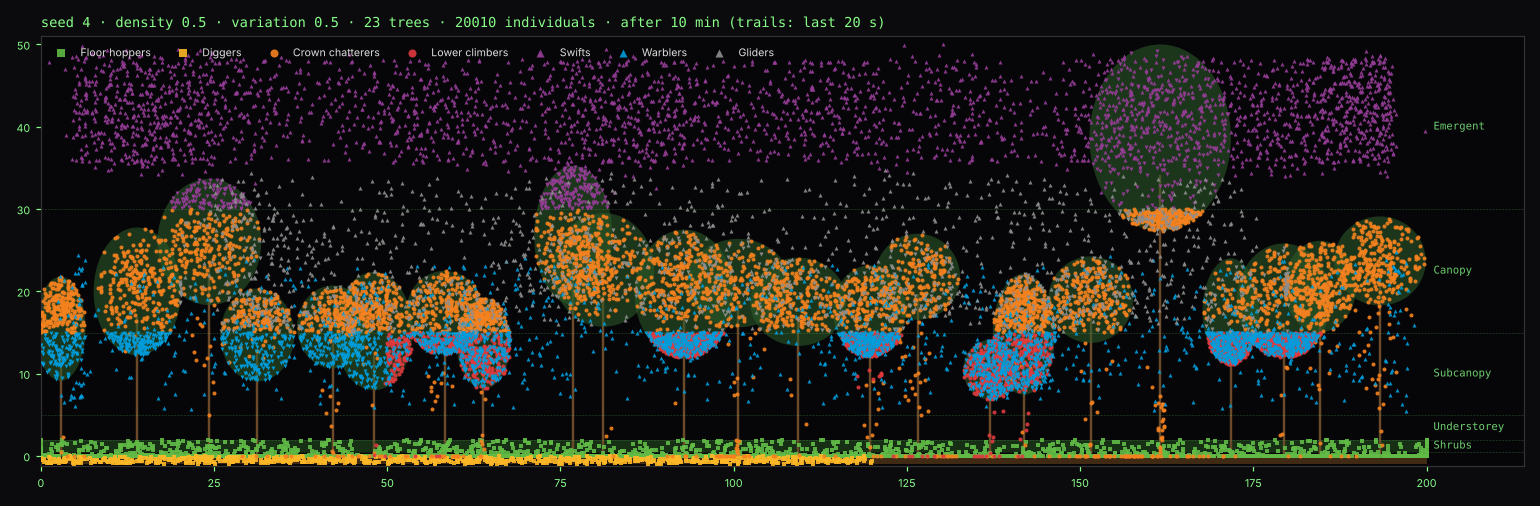
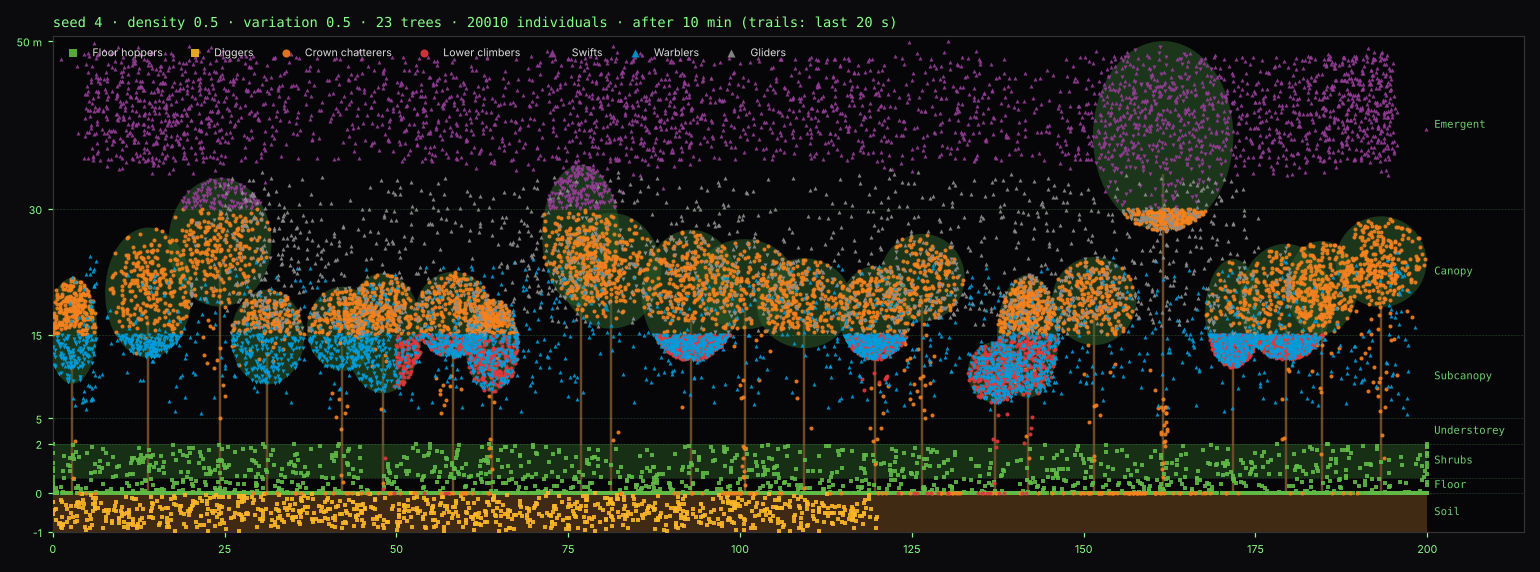
Taller soil and shrub bands in the world pictures; Mac CI on Intel
Claude-Session: https://claude.ai/code/session_016dUi4DJ9Gm1PvEiirdVzbF

diff --git a/tools/plot_world.py b/tools/plot_world.py
@@ -3,6 +3,7 @@
     python3 tools/plot_world.py out/world.json docs/experiments/02-forest.png
 """
 import json, sys
+import numpy as np
 import matplotlib
 matplotlib.use("Agg")
 import matplotlib.pyplot as plt
@@ -11,15 +12,26 @@ from matplotlib.patches import Ellipse, Rectangle
 COLOURS = ["#61bb46", "#fdb827", "#f5821f", "#e03a3e", "#963d97", "#009ddc", "#8f8f8f", "#c0e070"]
 LAYERS = [("Soil", -1, 0), ("Floor", 0, 0.5), ("Shrubs", 0.5, 2), ("Understorey", 2, 5),
           ("Subcanopy", 5, 15), ("Canopy", 15, 30), ("Emergent", 30, 50)]
+# The drawing stretches the low layers so they're readable: soil gets 8 % of the height, floor
+# and shrubs together 10 %, the 48 m above share the rest. Positions are unchanged; only the
+# picture's vertical scale is.
+KNOTS_M = [-1.0, 0.0, 0.5, 2.0, 50.0]
+KNOTS_D = [0.0, 8.0, 11.0, 18.0, 100.0]
+def to_draw(y):
+    return np.interp(y, KNOTS_M, KNOTS_D, left=KNOTS_D[0] - 1, right=KNOTS_D[-1] + 1)
+def from_draw(d):
+    return np.interp(d, KNOTS_D, KNOTS_M, left=KNOTS_M[0] - 0.1, right=KNOTS_M[-1] + 0.5)
+
 MARK = {"walker": "s", "burrower": "s", "climber": "o", "flyer": "^"}
 
 def main(src, dst):
     w = json.load(open(src))
-    fig, ax = plt.subplots(figsize=(14, 4.6), facecolor="#0b0b0e")
+    fig, ax = plt.subplots(figsize=(14, 5.2), facecolor="#0b0b0e")
     ax.set_facecolor("#060608")
     ax.add_patch(Rectangle((0, -1), 200, 1, color="#5a3a1a", alpha=0.7, lw=0))
     ax.add_patch(Rectangle((0, 0.5), 200, 1.5, color="#2f6b2a", alpha=0.15 + 0.45 * w["shrubs"], lw=0))
-    for name, lo, hi in LAYERS[2:]:
+    ax.set_yscale("function", functions=(to_draw, from_draw))
+    for name, lo, hi in LAYERS:
         ax.axhline(lo, color="#8f8", lw=0.4, alpha=0.25, ls="--")
         ax.text(201, (lo + hi) / 2, name, color="#8f8", fontsize=7, va="center", family="monospace", alpha=0.8)
     for x, h, cb, hw in w["trees"]:
@@ -38,7 +50,9 @@ def main(src, dst):
             m = "v" if mode == "perched" else MARK[s["movement"]]
             ax.scatter([a["x"] for a in sel], [a["y"] for a in sel], s=7, marker=m, color=COLOURS[si % 8],
                        alpha=alpha, lw=0, zorder=3, label=s["name"] if mode == "flying" or s["movement"] != "flyer" and mode == "still" else None)
-    ax.set_xlim(0, 214); ax.set_ylim(-1.2, 51)
+    ax.set_xlim(0, 214); ax.set_ylim(-1.0, 50.5)
+    ax.set_yticks([-1, 0, 2, 5, 15, 30, 50])
+    ax.set_yticklabels(["-1", "0", "2", "5", "15", "30", "50 m"])
     ax.tick_params(colors="#8f8", labelsize=7)
     for sp in ax.spines.values():
         sp.set_color("#333")

diff --git a/experiments.md b/experiments.md
@@ -18,6 +18,8 @@ came out. Screenshots go in `docs/experiments/` as `NN-short-name.png` (NN = bat
 | 20 Oct 2026 | 02 | Snapshots of the demo forest (7 species, 2,300 individuals) after 10 min: woodland, forest, thicket | Climbers in crowns with trails down trunks when they change trees; perched flyers in their layers; burrowers only in their part of the soil | `docs/experiments/02-woodland.png`, `02-forest.png`, `02-thicket.png` |
 | 20 Oct 2026 | 02 | Look at the first snapshots | Flocks streaked across the whole width (pull home too weak); climbers lined up on crown edges their area only clipped. Fixed: stronger pull past the roaming distance; prefer trees that reach well into the area; crown half-width capped at 12 m | |
 | 20 Oct 2026 | 02 | World bench: demo forest ×8.7 (20,010 individuals, 4,749 groups), 20 steps a second (container) | 42 ms per second of forest time: about 4 % of one core. Set-up 21 ms | `docs/experiments/02-forest-20k.png` |
+| 20 Oct 2026 | 02 | Your note: soil and shrubs too thin in the pictures | Drawing now stretches the low layers (soil 8 %, floor + shrubs 10 % of the height); the world is unchanged. Images redrawn | `docs/experiments/02-*.png` |
+| 20 Oct 2026 | 01 | Bench on GitHub's Apple Silicon Mac | Never ran: no runner free within 15 min (GitHub capacity). Switched to `macos-26-intel`, matching your Intel laptop | |
 
 ## Notes
 

diff --git a/design.md b/design.md
@@ -272,7 +272,9 @@ Many quiet animals add up quickly: 1,000 equal callers are 30 dB louder than one
 Same look as the bytebent pages (platinum window, black screen first, etched groups, knobs and
 range sliders) with kanopy's own name and badge and no bytebent mark. [Decided]
 
-- **Forest**: the screen shows the slice: trees, layer guides, the listener or the box, and every
+- **Forest**: the screen shows the slice, with the soil and the floor-and-shrubs band drawn taller
+  than their real height so they're readable (soil 8 %, floor and shrubs 10 % of the picture).
+  Only the picture is stretched, not the world. [Proposed] The screen shows trees, layer guides, the listener or the box, and every
   individual as a dot in its species colour that lights up when it calls. Drag the listener, or draw
   and drag the box. Controls: Listen (Listener · Box), Density, Medium, Reverb, Key, Ear, Path,
   Seed, Play, Export.
